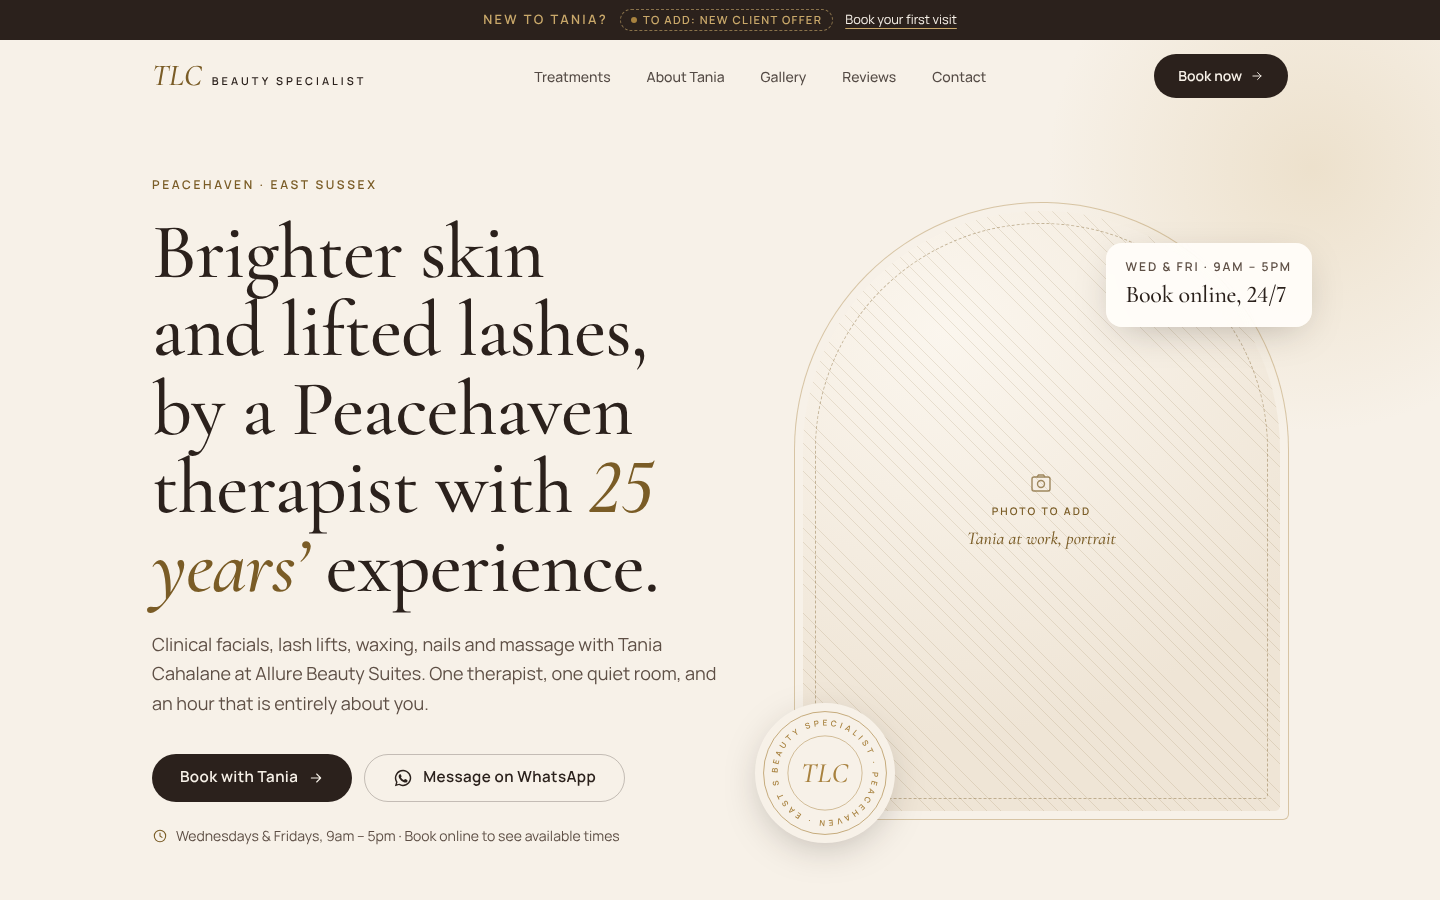
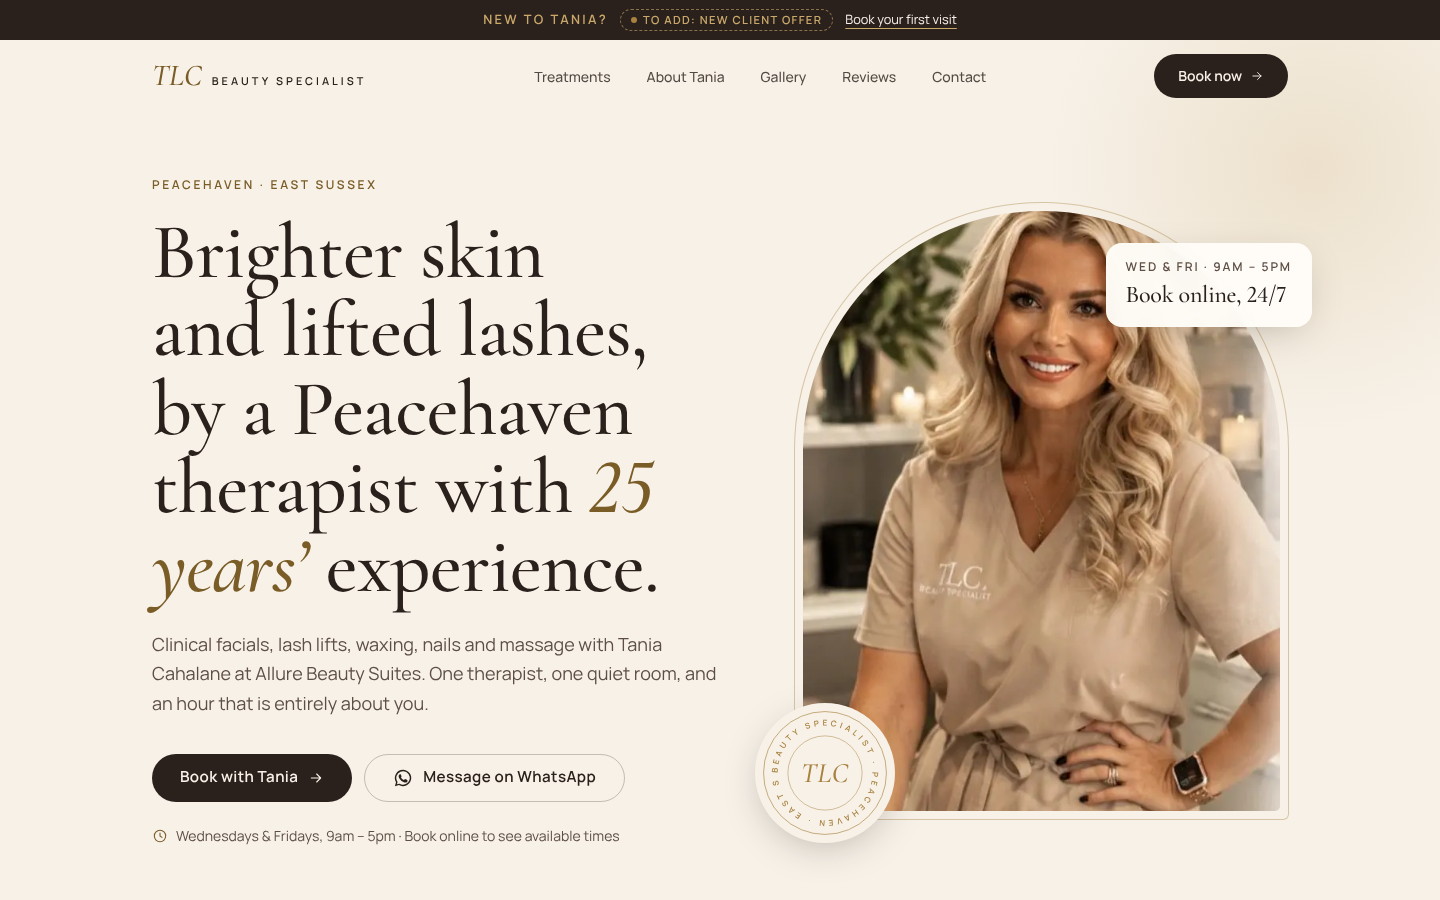
Add Tania's photos: hero, portrait, facial and brow results
Hero and Meet Tania portraits, facial in progress for the Carboxy card,
brow before/after in the results slider, and brow lamination results in
the gallery. Wide gallery photos keep their natural aspect ratio.

Claude-Session: https://claude.ai/code/session_015VU8aU5H2cLtJb35rGdAGd

Changed region(s): [[0.5312, 0.2178, 0.9062, 0.9022]]

diff --git a/src/lib/images.ts b/src/lib/images.ts
@@ -2,24 +2,27 @@
 // /public/images and set its path here; until then the slot renders as a
 // clearly marked placeholder (never a stock photo).
 
-export type Slot = { src: string | null; alt: string; label: string };
+export type Slot = { src: string | null; alt: string; label: string; position?: string; ratio?: string };
 
-const slot = (label: string, alt: string, src: string | null = null): Slot => ({ src, alt, label });
+const slot = (label: string, alt: string, src: string | null = null, position?: string): Slot => ({ src, alt, label, position });
 
 export const images = {
-  heroTania: slot("Tania at work, portrait", "Tania Cahalane carrying out a facial at Allure Beauty Suites, Peacehaven"),
-  taniaPortrait: slot("Tania, head and shoulders", "Tania Cahalane, beauty therapist in Peacehaven"),
+  heroTania: slot("Tania, portrait", "Tania Cahalane, TLC Beauty Specialist, in her treatment room in Peacehaven", "/images/tania-menu-portrait.jpg", "50% 22%"),
+  taniaPortrait: slot("Tania, head and shoulders", "Tania Cahalane, beauty therapist at Allure Beauty Suites, Peacehaven", "/images/tania-portrait.jpg", "62% 30%"),
   suite: slot("The treatment suite", "The private treatment room at Allure Beauty Suites, Peacehaven"),
   sigLash: slot("Lash lift result", "Lash lift and tint result by Tania in Peacehaven"),
-  sigFacial: slot("Carboxy facial in progress", "Clinicare Carboxy Facial treatment in Peacehaven"),
+  sigFacial: slot("Facial in progress", "Tania carrying out a facial on a client in Peacehaven", "/images/facial-in-progress.jpg", "30% 50%"),
   sigWax: slot("Waxing room / hot wax", "Hot wax being prepared for a Hollywood wax"),
-  before: slot("Before photo", "Client skin before treatment"),
-  after: slot("After photo", "The same client's skin after treatment"),
+  before: slot("Before photo", "A client's brows before treatment with Tania", "/images/brows-before.jpg"),
+  after: slot("After photo", "The same client's brows after treatment with Tania", "/images/brows-after.jpg"),
   voucher: slot("Gift voucher photo", "TLC Beauty Specialist gift voucher"),
   gallery: [
+    { ...slot("Brow lamination, after", "Brow lamination result by Tania: full, brushed-up brows", "/images/brow-lamination-after.jpg"), ratio: "1009 / 352" },
+    slot("Brows, after", "A client's brows after treatment with Tania", "/images/brows-after.jpg"),
+    slot("Facial in progress", "Tania carrying out a facial", "/images/facial-in-progress.jpg", "30% 50%"),
+    { ...slot("Brow lamination, before", "A client's brows before brow lamination", "/images/brow-lamination-before.jpg"), ratio: "1009 / 346" },
+    slot("Brows, before", "A client's brows before treatment", "/images/brows-before.jpg"),
     slot("Lash lift result", "Lash lift result"),
-    slot("Brow lamination result", "Brow lamination result"),
-    slot("Facial glow, after", "Skin after a Clinicare facial"),
     slot("Gel manicure", "Gel manicure by Tania"),
     slot("BIAB nails", "BIAB nails by Tania"),
     slot("The suite", "Treatment suite at Allure Beauty Suites"),

diff --git a/src/components/ImageSlot.tsx b/src/components/ImageSlot.tsx
@@ -7,14 +7,15 @@ type Props = {
   sizes?: string;
   priority?: boolean;
   tint?: "sand" | "stone" | "espresso";
+  style?: React.CSSProperties;
 };
 
 // Renders a real photo when one is set, otherwise a clearly marked photo slot.
-export function ImageSlot({ slot, className = "", sizes = "(min-width: 1024px) 50vw, 100vw", priority, tint = "sand" }: Props) {
+export function ImageSlot({ slot, className = "", sizes = "(min-width: 1024px) 50vw, 100vw", priority, tint = "sand", style }: Props) {
   if (slot.src) {
     return (
-      <div className={`${className.includes("absolute") ? "" : "relative "}overflow-hidden ${className}`}>
-        <Image src={slot.src} alt={slot.alt} fill sizes={sizes} priority={priority} className="object-cover" />
+      <div style={style} className={`${className.includes("absolute") ? "" : "relative "}overflow-hidden ${className}`}>
+        <Image src={slot.src} alt={slot.alt} fill sizes={sizes} priority={priority} className="object-cover" style={slot.position ? { objectPosition: slot.position } : undefined} />
       </div>
     );
   }
@@ -25,7 +26,7 @@ export function ImageSlot({ slot, className = "", sizes = "(min-width: 1024px) 5
         ? "bg-[radial-gradient(120%_90%_at_30%_20%,#f3eadc_0%,#e3d6c3_80%)] text-gold-ink"
         : "bg-[radial-gradient(120%_90%_at_30%_20%,#fbf6ee_0%,#efe5d6_75%)] text-gold-ink";
   return (
-    <div role="img" aria-label={`Photo to add: ${slot.label}`} className={`${className.includes("absolute") ? "" : "relative "}overflow-hidden ${bg} ${className}`}>
+    <div role="img" aria-label={`Photo to add: ${slot.label}`} style={style} className={`${className.includes("absolute") ? "" : "relative "}overflow-hidden ${bg} ${className}`}>
       <div aria-hidden className="absolute inset-0 bg-[repeating-linear-gradient(45deg,currentColor_0_0.6px,transparent_0.6px_10px)] opacity-[0.14]" />
       <div className="absolute inset-3 flex flex-col items-center justify-center gap-2 rounded-[inherit] border border-dashed border-current/40 p-4 text-center">
         <svg aria-hidden viewBox="0 0 24 24" className="size-6 opacity-70" fill="none" stroke="currentColor" strokeWidth="1.4">

diff --git a/src/app/gallery/page.tsx b/src/app/gallery/page.tsx
@@ -28,7 +28,7 @@ export default function GalleryPage() {
             {images.gallery.map((img, i) => (
               <Reveal as="li" key={i} delay={(i % 3) * 0.08} className="mb-5 break-inside-avoid">
                 <figure>
-                  <ImageSlot slot={img} className={`rounded-[1.5rem] ${i % 3 === 1 ? "aspect-[3/4]" : i % 3 === 2 ? "aspect-square" : "aspect-[4/5]"}`} sizes="(min-width: 1024px) 33vw, (min-width: 640px) 50vw, 100vw" tint={i % 2 ? "stone" : "sand"} />
+                  <ImageSlot slot={img} style={img.ratio ? { aspectRatio: img.ratio } : undefined} className={`rounded-[1.5rem] ${img.ratio ? "" : i % 3 === 1 ? "aspect-[3/4]" : i % 3 === 2 ? "aspect-square" : "aspect-[4/5]"}`} sizes="(min-width: 1024px) 33vw, (min-width: 640px) 50vw, 100vw" tint={i % 2 ? "stone" : "sand"} />
                   {img.src && <figcaption className="mt-3 text-sm text-cocoa">{img.label}</figcaption>}
                 </figure>
               </Reveal>

diff --git a/src/components/home/Hero.tsx b/src/components/home/Hero.tsx
@@ -45,7 +45,7 @@ export function Hero() {
           <div className="absolute -bottom-6 -left-4 rounded-full bg-cream p-1.5 shadow-[0_10px_40px_-12px_rgba(43,33,28,0.35)] sm:-left-10">
             <Monogram className="size-28 sm:size-32" />
           </div>
-          <div className="absolute -right-2 top-10 rounded-2xl bg-ivory/95 px-5 py-4 shadow-[0_10px_40px_-14px_rgba(43,33,28,0.35)] backdrop-blur sm:-right-6">
+          <div className="absolute -right-2 bottom-16 rounded-2xl sm:bottom-auto sm:top-10 bg-ivory/95 px-5 py-4 shadow-[0_10px_40px_-14px_rgba(43,33,28,0.35)] backdrop-blur sm:-right-6">
             <p className="text-xs font-semibold uppercase tracking-[0.16em] text-cocoa">Wed &amp; Fri · 9am – 5pm</p>
             <p className="h-display mt-1 text-2xl">Book online, 24/7</p>
           </div>

diff --git a/src/components/home/Results.tsx b/src/components/home/Results.tsx
@@ -10,7 +10,7 @@ export function Results() {
           <Reveal>
             <p className="eyebrow">Results</p>
             <h2 className="h-display mt-4 text-[2.4rem] sm:text-5xl lg:text-[3.6rem]">
-              Real clients, real skin. <em className="text-gold-ink">No filters.</em>
+              Real clients, real results. <em className="text-gold-ink">No filters.</em>
             </h2>
             <p className="mt-6 max-w-lg text-lg leading-relaxed text-cocoa">
               Drag the slider to see the difference. Every photo is one of Tania&rsquo;s own clients, shared with their permission.
